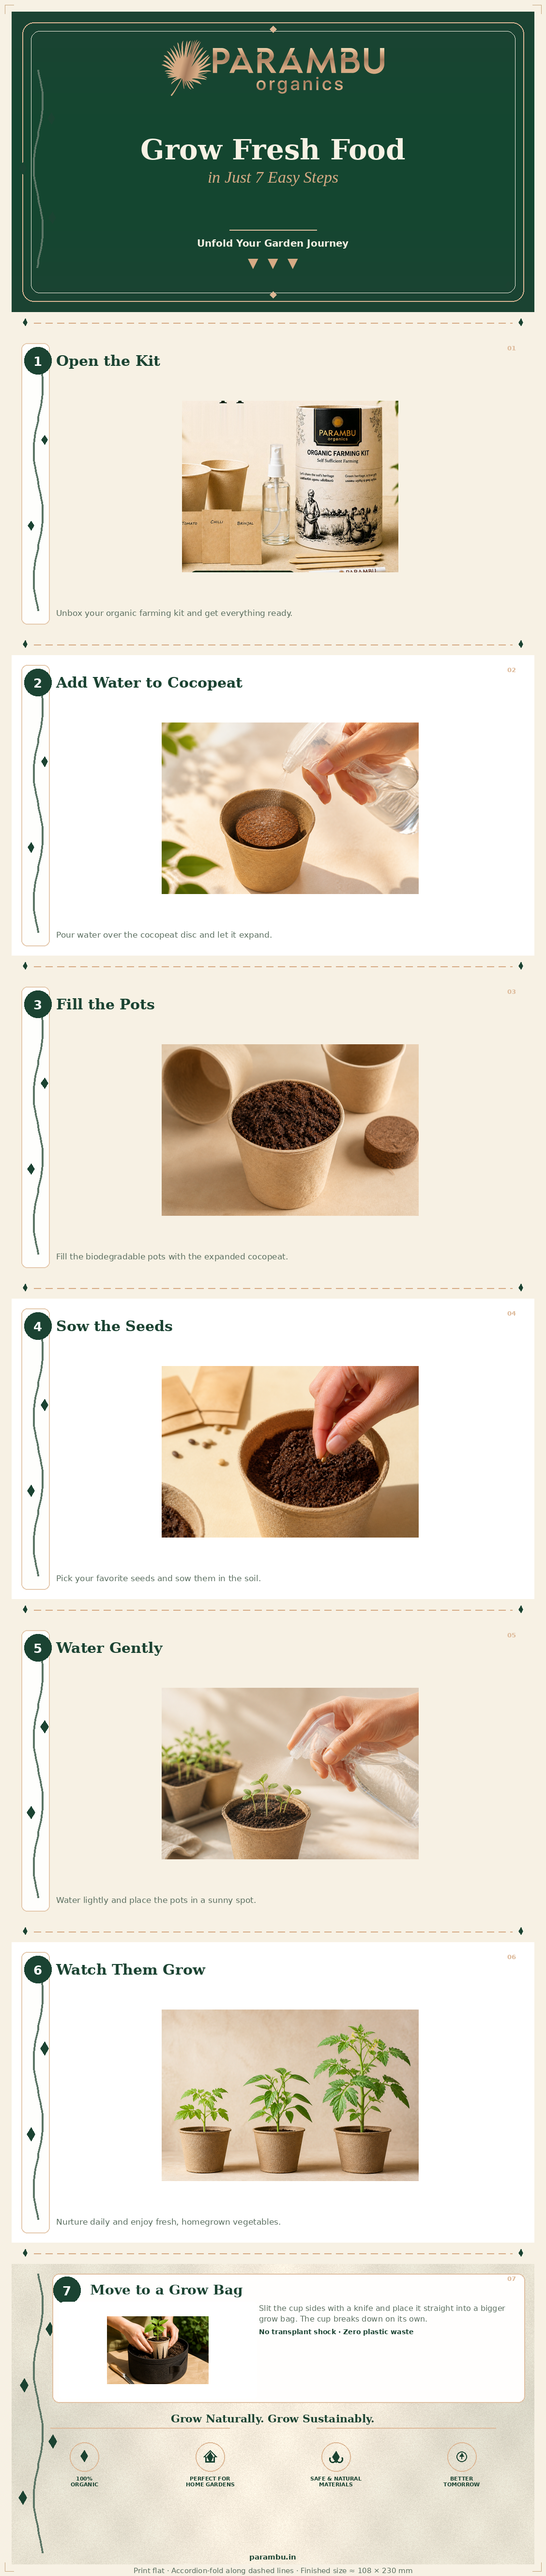
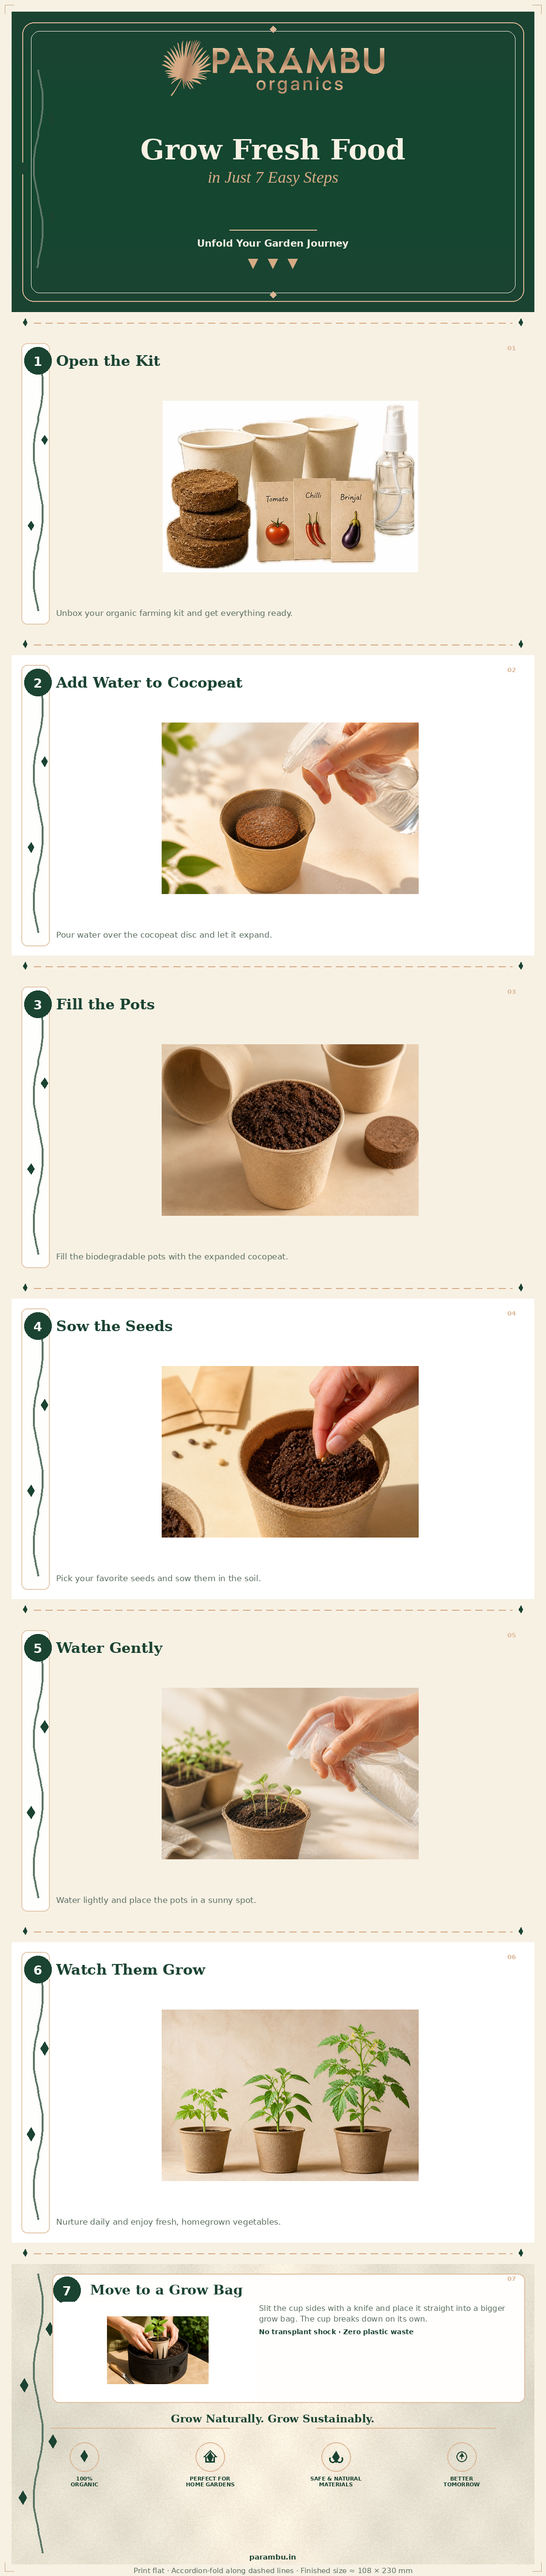
Use Disc And Cup.jpeg for step 1 in grow kit guide
Prefer the dedicated disc-and-cup product photo on slide 1 and only
fall back to the poster crop when that file is missing.

Changed region(s): [[0.2793, 0.1561, 0.7757, 0.2498]]

diff --git a/brand/assets/grow-kit-guide/generate_user_guide.py b/brand/assets/grow-kit-guide/generate_user_guide.py
@@ -37,9 +37,9 @@ FOLD_INNER_PAD = 20
 PHOTO_ZOOM = 0.86
 PHOTO_PAD = 28
 
-# Step 1 reuses the kit hero shot from the reference poster, cropped around the
-# canister so the packaging stays legible at card size. The poster's subtitle
-# sits beside the canister, so it is painted out before cropping.
+# Step 1 prefers the dedicated disc-and-cup product photo; the poster crop is
+# only generated as a fallback when that file is missing.
+DISC_AND_CUP_PHOTO = "Disc And Cup.jpeg"
 KIT_POSTER = "Kit-Poster3.jpeg"
 # Whole product spread — crop starts right of the cocopeat discs.
 KIT_POSTER_CROP = (320, 395, 1068, 988)
@@ -53,7 +53,7 @@ ROW_LAYOUT = [3, 3, 1]
 # photo dropped into steps/ is preferred over the generated placeholder.
 STEPS = [
     (
-        (STEP_ONE_PHOTO,),
+        (DISC_AND_CUP_PHOTO, STEP_ONE_PHOTO),
         "Open the Kit",
         "Unbox your organic farming kit and get everything ready.",
     ),
@@ -154,7 +154,9 @@ def load_cover_logo(width: int) -> Image.Image:
 
 
 def refresh_step_one_photo() -> None:
-    """Re-cut the step 1 kit shot from the poster so it stays the source of truth."""
+    """Generate the poster fallback for step 1 when the disc-and-cup photo is absent."""
+    if (STEPS_DIR / DISC_AND_CUP_PHOTO).exists():
+        return
     source = STEPS_DIR / KIT_POSTER
     if not source.exists():
         return
